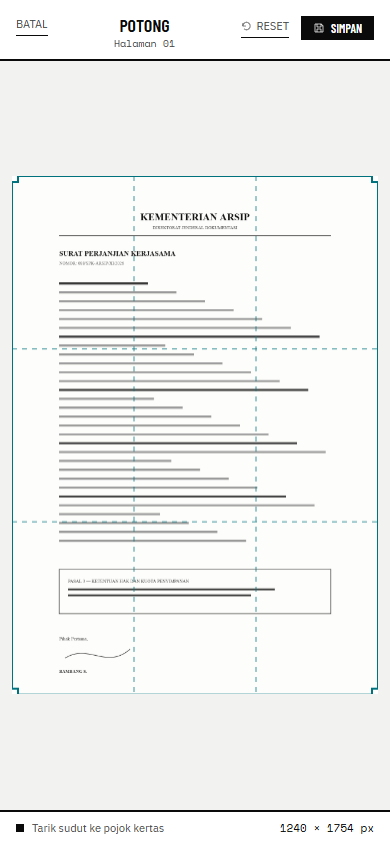
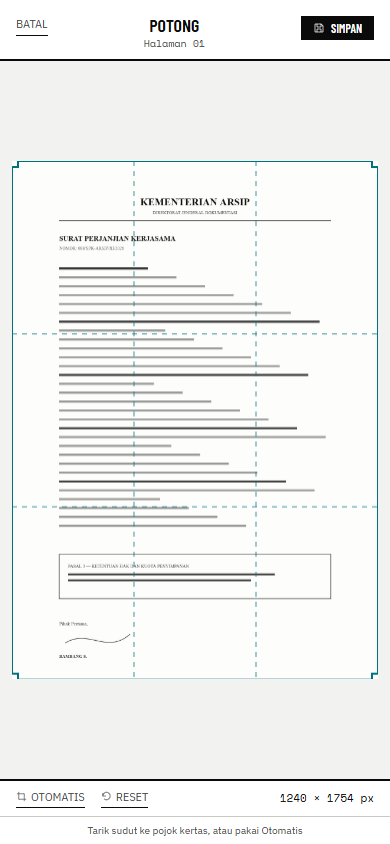
edit document name

diff --git a/src/components/Library.tsx b/src/components/Library.tsx
@@ -1,5 +1,5 @@
 import { useEffect, useRef, useState } from 'react'
-import { getPage, listDocs, storageEstimate } from '../lib/db'
+import { getPage, listDocs, putDoc, storageEstimate } from '../lib/db'
 import { renderThumb } from '../lib/render'
 import { createBackup, importBackup } from '../lib/backup'
 import { download } from '../lib/export'
@@ -17,6 +17,8 @@ export default function Library({ activeId, onOpen }: Props) {
   const [docs, setDocs] = useState<Dokumen[]>([])
   const [quota, setQuota] = useState<{ used: number; quota: number } | null>(null)
   const [msg, setMsg] = useState<string | null>(null)
+  const [renaming, setRenaming] = useState<string | null>(null)
+  const [draft, setDraft] = useState('')
   const importRef = useRef<HTMLInputElement>(null)
   const { canInstall, installed, install, hint } = useInstall()
 
@@ -46,6 +48,19 @@ export default function Library({ activeId, onOpen }: Props) {
   const size = (n: number) => {
     const [v, unit] = n >= 1073741824 ? [n / 1073741824, 'GB'] : [n / 1048576, 'MB']
     return `${v.toFixed(1).replace('.', ',')} ${unit}`
+  }
+
+  const startRename = (d: Dokumen) => {
+    setDraft(d.name)
+    setRenaming(d.id)
+  }
+
+  const commitRename = async (d: Dokumen) => {
+    setRenaming(null)
+    const next = draft.trim().slice(0, 80)
+    if (!next || next === d.name) return
+    await putDoc({ ...d, name: next })
+    refresh()
   }
 
   return (
@@ -116,35 +131,65 @@ export default function Library({ activeId, onOpen }: Props) {
           <ul>
             {docs.map((d, i) => (
               <li key={d.id}>
-                <button
-                  onClick={() => onOpen(d.id)}
-                  className={`flex w-full items-center gap-3 border-b border-hair py-2.5 pl-0 pr-4 text-left ${
-                    d.id === activeId ? 'bg-process-wash' : 'active:bg-plate'
-                  }`}
-                >
-                  {/* Record number: right-aligned in a fixed column so the digits form a spine. */}
-                  <span
-                    className={`num w-11 shrink-0 border-l-[3px] pr-3 text-right text-[11px] ${
-                      d.id === activeId ? 'border-process text-process' : 'border-transparent text-ink-2'
-                    }`}
-                  >
-                    {String(i + 1).padStart(2, '0')}
-                  </span>
-                  <DocThumb doc={d} />
-                  <span className="min-w-0 flex-1">
-                    <span className="block truncate text-[15px] font-medium">{d.name}</span>
-                    <span className="num mt-0.5 block text-[10px] uppercase text-ink-2">
-                      {String(d.pages.length).padStart(2, '0')} hal ·{' '}
-                      {new Date(d.updatedAt).toLocaleString('id-ID', {
-                        day: '2-digit',
-                        month: 'short',
-                        hour: '2-digit',
-                        minute: '2-digit',
-                      })}
+                {renaming === d.id ? (
+                  <div className="flex items-center gap-3 border-b border-hair py-2.5 pr-4">
+                    <span className="num w-11 shrink-0 border-l-[3px] border-process pr-3 text-right text-[11px] text-process">
+                      {String(i + 1).padStart(2, '0')}
                     </span>
-                  </span>
-                  <Icon name="right" size={12} className="text-ink-2" />
-                </button>
+                    <DocThumb doc={d} />
+                    <input
+                      autoFocus
+                      value={draft}
+                      onChange={(e) => setDraft(e.target.value)}
+                      onBlur={() => void commitRename(d)}
+                      onKeyDown={(e) => {
+                        if (e.key === 'Enter') void commitRename(d)
+                        if (e.key === 'Escape') setRenaming(null)
+                      }}
+                      maxLength={80}
+                      aria-label="Nama dokumen"
+                      className="min-w-0 flex-1 border-b border-ink bg-transparent pb-0.5 text-[15px] font-medium outline-none"
+                    />
+                  </div>
+                ) : (
+                  <div className="flex items-center gap-3 border-b border-hair pr-4">
+                    <button
+                      onClick={() => onOpen(d.id)}
+                      className={`flex min-w-0 flex-1 items-center gap-3 py-2.5 pl-0 text-left ${
+                        d.id === activeId ? 'bg-process-wash' : 'active:bg-plate'
+                      }`}
+                    >
+                      {/* Record number: right-aligned in a fixed column so the digits form a spine. */}
+                      <span
+                        className={`num w-11 shrink-0 border-l-[3px] pr-3 text-right text-[11px] ${
+                          d.id === activeId ? 'border-process text-process' : 'border-transparent text-ink-2'
+                        }`}
+                      >
+                        {String(i + 1).padStart(2, '0')}
+                      </span>
+                      <DocThumb doc={d} />
+                      <span className="min-w-0 flex-1">
+                        <span className="block truncate text-[15px] font-medium">{d.name}</span>
+                        <span className="num mt-0.5 block text-[10px] uppercase text-ink-2">
+                          {String(d.pages.length).padStart(2, '0')} hal ·{' '}
+                          {new Date(d.updatedAt).toLocaleString('id-ID', {
+                            day: '2-digit',
+                            month: 'short',
+                            hour: '2-digit',
+                            minute: '2-digit',
+                          })}
+                        </span>
+                      </span>
+                    </button>
+                    <button
+                      onClick={() => startRename(d)}
+                      aria-label={`Ubah nama ${d.name}`}
+                      className="shrink-0 p-2 text-ink-2 active:text-ink"
+                    >
+                      <Icon name="pencil" size={13} />
+                    </button>
+                  </div>
+                )}
               </li>
             ))}
           </ul>

diff --git a/src/components/Editor.tsx b/src/components/Editor.tsx
@@ -132,6 +132,25 @@ export default function Editor({ id, onBack }: Props) {
 
   const active = useMemo(() => pages.find((p) => p.id === activeId) ?? null, [pages, activeId])
 
+  // Rename inline: a dialog for one field is more taps than the field itself.
+  const [editing, setEditing] = useState(false)
+  const [draft, setDraft] = useState('')
+
+  const startRename = () => {
+    if (!doc) return
+    setDraft(doc.name)
+    setEditing(true)
+  }
+
+  const commitRename = async () => {
+    setEditing(false)
+    if (!doc) return
+    const next = draft.trim().slice(0, 80)
+    if (!next || next === doc.name) return
+    await save({ ...doc, name: next }, pages)
+    flash('Nama dokumen diubah')
+  }
+
   if (notFound) {
     return (
       <div className="flex h-full flex-col items-center justify-center gap-4 px-5 text-center">
@@ -181,8 +200,31 @@ export default function Editor({ id, onBack }: Props) {
             <Icon name="left" size={11} />
             Kembali
           </button>
-          <div className="min-w-0 text-center">
-            <div className="truncate text-[14px] font-medium leading-tight">{doc.name}</div>
+          <div className="min-w-0 flex-1 text-center">
+            {editing ? (
+              <input
+                autoFocus
+                value={draft}
+                onChange={(e) => setDraft(e.target.value)}
+                onBlur={() => void commitRename()}
+                onKeyDown={(e) => {
+                  if (e.key === 'Enter') void commitRename()
+                  if (e.key === 'Escape') setEditing(false)
+                }}
+                maxLength={80}
+                aria-label="Nama dokumen"
+                className="w-full border-b border-ink bg-transparent pb-0.5 text-center text-[14px] font-medium leading-tight outline-none"
+              />
+            ) : (
+              <button
+                onClick={startRename}
+                className="mx-auto flex max-w-full items-center gap-1.5"
+                aria-label={`Ubah nama ${doc.name}`}
+              >
+                <span className="truncate text-[14px] font-medium leading-tight">{doc.name}</span>
+                <Icon name="pencil" size={13} className="text-ink-2" />
+              </button>
+            )}
             <div className="num mt-0.5 text-[10px] text-ink-2">
               {String(pages.findIndex((p) => p.id === activeId) + 1).padStart(2, '0')} /{' '}
               {String(pages.length).padStart(2, '0')}
@@ -199,6 +241,14 @@ export default function Editor({ id, onBack }: Props) {
         </div>
       </header>
       <div className="h-0.5 shrink-0 bg-ink" />
+
+      {/* In the flow, right under the header rule: a floating toast either covered
+          the action bar or the page strip, and 2,5 s of layout shift is cheaper. */}
+      {toast && (
+        <div className="shrink-0 border-b border-hair bg-plate px-4 py-1.5 text-center text-[12px] text-ink">
+          {toast}
+        </div>
+      )}
 
       {pages.length > 0 && (
         <PageStrip
@@ -228,13 +278,9 @@ export default function Editor({ id, onBack }: Props) {
         </div>
       )}
 
-      {toast && (
-        <div className="pointer-events-none fixed inset-x-0 bottom-20 z-30 flex justify-center px-4">
-          <span className="border-2 border-ink bg-paper px-3 py-1.5 text-[12px] text-ink">{toast}</span>
-        </div>
+      {mode === 'export' && (
+        <ExportPanel pages={pages} suggested={doc.name} onClose={() => setMode('view')} />
       )}
-
-      {mode === 'export' && <ExportPanel pages={pages} onClose={() => setMode('view')} />}
     </div>
   )
 }

diff --git a/src/components/CropEditor.tsx b/src/components/CropEditor.tsx
@@ -176,23 +176,6 @@ export default function CropEditor({ page, pageIndex = 0, onSave, onCancel }: Pr
           </div>
           <div className="flex shrink-0 items-center gap-3">
             <button
-              onClick={autoDetect}
-              className="link-action inline-flex items-center gap-1 text-[11px]"
-            >
-              <Icon name="crop" size={11} />
-              Otomatis
-            </button>
-            <button
-              onClick={() => {
-                setQuad(fullQuad(page.size))
-                setNote(null)
-              }}
-              className="link-action inline-flex items-center gap-1 text-[11px]"
-            >
-              <Icon name="reset" size={11} />
-              Reset
-            </button>
-            <button
               disabled={bad}
               onClick={() => onSave(quad)}
               className="display inline-flex items-center gap-1.5 bg-ink px-3 py-1.5 text-[12px] text-paper active:opacity-80 disabled:opacity-40"
@@ -229,14 +212,33 @@ export default function CropEditor({ page, pageIndex = 0, onSave, onCancel }: Pr
       )}
 
       <div className="flex shrink-0 items-center justify-between border-t-2 border-ink px-4 py-2">
-        <span className="flex items-center gap-2 text-[11px] text-ink-2">
-          <span className="block h-2 w-2 bg-ink" />
-          Tarik sudut ke pojok kertas
-        </span>
+        <div className="flex items-center gap-4">
+          <button
+            onClick={autoDetect}
+            className="link-action inline-flex items-center gap-1 text-[11px]"
+          >
+            <Icon name="crop" size={11} />
+            Otomatis
+          </button>
+          <button
+            onClick={() => {
+              setQuad(fullQuad(page.size))
+              setNote(null)
+            }}
+            className="link-action inline-flex items-center gap-1 text-[11px]"
+          >
+            <Icon name="reset" size={11} />
+            Reset
+          </button>
+        </div>
         <span className="num text-[11px] text-ink">
           {out.w} × {out.h} px
         </span>
       </div>
+
+      <p className="shrink-0 border-t border-hair px-4 py-1.5 text-center text-[10px] text-ink-2">
+        {note ?? 'Tarik sudut ke pojok kertas, atau pakai Otomatis'}
+      </p>
     </div>
   )
 }

diff --git a/src/components/ExportPanel.tsx b/src/components/ExportPanel.tsx
@@ -8,12 +8,14 @@ type Format = 'pdf' | 'jpeg' | 'png'
 
 interface Props {
   pages: Halaman[]
+  /** Dokumen name, so renaming in the editor carries into the export filename. */
+  suggested: string
   onClose: () => void
 }
 
 /** Export sheet: name, format, then Bagikan (WA etc.) or Unduh. */
-export default function ExportPanel({ pages, onClose }: Props) {
-  const [name, setName] = useState(defaultName())
+export default function ExportPanel({ pages, suggested, onClose }: Props) {
+  const [name, setName] = useState(suggested || defaultName())
   const [format, setFormat] = useState<Format>('pdf')
   const [busy, setBusy] = useState(false)
   const [err, setErr] = useState<string | null>(null)

diff --git a/src/components/Icon.tsx b/src/components/Icon.tsx
@@ -22,6 +22,7 @@ type Name =
   | 'right'
   | 'close'
   | 'camera'
+  | 'pencil'
 
 const PATHS: Record<Name, React.ReactNode> = {
   // A sheet behind a viewfinder corner: scan.
@@ -111,6 +112,14 @@ const PATHS: Record<Name, React.ReactNode> = {
     <>
       <path d="M3 8h3l1.5-2h9L18 8h3v11H3z" />
       <path d="M9 13.5a3 3 0 106 0 3 3 0 10-6 0" />
+    </>
+  ),
+  // A pencil has to survive 12px, so it is one closed diagonal body and a nib,
+  // not an outline with an inner line that fills in at small sizes.
+  pencil: (
+    <>
+      <path d="M3 21l1.5-5L16 4.5 19.5 8 8 19.5 3 21z" />
+      <path d="M14 6.5l3.5 3.5" />
     </>
   ),
 }
